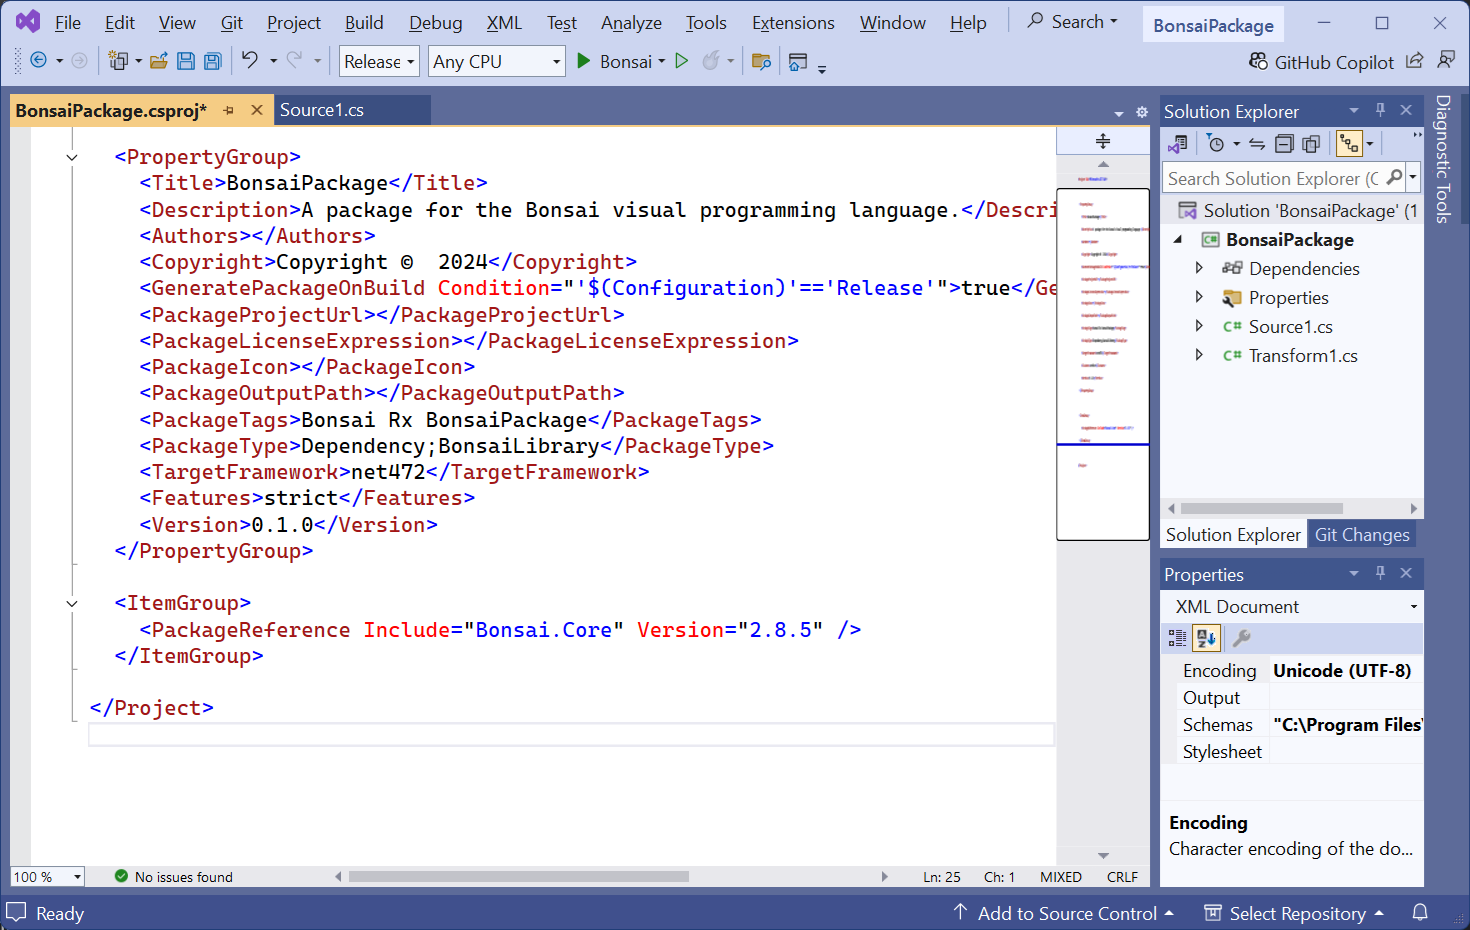
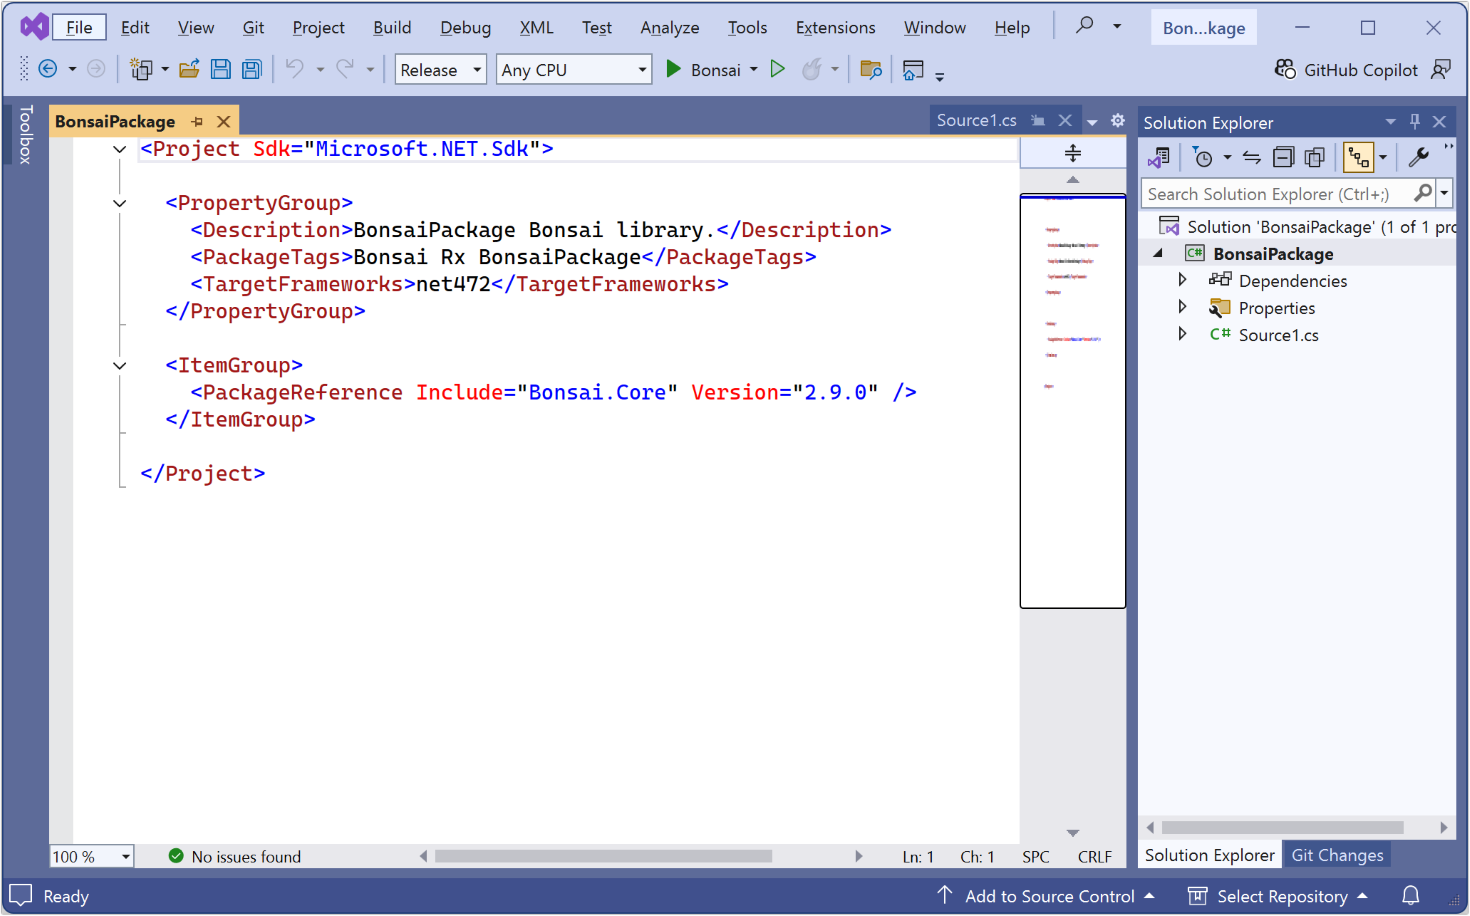
Replace publishing screenshot and update text

Changed region(s): [[0.0, 0.0, 1.0, 1.0], [0.5816, 0.3974, 0.6122, 0.4279], [0.5204, 0.3974, 0.551, 0.4279]]

diff --git a/articles/create-package.md b/articles/create-package.md
@@ -25,18 +25,14 @@ The Bonsai language can be extended with custom packages, which are installed an
     ![Creating a new Bonsai package project](~/images/extensions-packageproject.png)
     
     > [!WARNING]
-    > If you see multiple duplicate entries, you may have leftover deprecated `Bonsai VS extensions` from a previous Bonsai installation. To uninstall them, go to **Extensions** > **Manage Extensions** in Visual Studio.
+    > If you see only one entry or multiple duplicate entries, it may indicate leftover deprecated `Bonsai VS extensions` from a previous Bonsai installation. To maintain a clean development environment, go to **Extensions** > **Manage Extensions** in Visual Studio to uninstall them.
 
-3. Give a name and a location for the project and solution and press the `Create` button. After the project is created, you should see that a file "**Source1.cs**" has been added to the solution explorer. This file contains an example implementation of a custom source.
+3. Give a name and a location for the package project and press the `Create` button. After the project is created, you should see that a file "**Source1.cs**" has been added to the solution explorer. This file contains an example implementation of a custom source.
 
     ![Bonsai source template](~/images/extensions-sourcetemplate.png)
 
     > [!TIP]
     > To prevent unnecessary nested folders, enable the checkbox that places the project and solution in the same directory. The **Bonsai Package** template automatically creates a separate project directory inside the `src` folder.
-
-    > [!TIP]
-    > The example code includes [XML documentation comments](https://learn.microsoft.com/en-us/dotnet/csharp/language-reference/xmldoc/recommended-tags), which can be processed by [docfx](https://dotnet.github.io/docfx/index.html) to automatically generate documentation pages for your package.
-    > For more information, check out the [Documentation with docfx](./documentation-docfx.md) article.
 
 4. Every Bonsai operator specifies an observable sequence using the <xref href="System.IObservable`1"/> interface. The [System.Reactive](http://reactivex.io/) package provides a comprehensive library of methods used to generate and manipulate observable sequences in C#. The simplest way to implement a source is by using the methods in the <xref href="System.Reactive.Linq.Observable"/> class.
 
@@ -120,7 +116,8 @@ The Bonsai language can be extended with custom packages, which are installed an
     ```
 
     > [!NOTE]
-    > To include .bonsai workflow files in your package, tag them as embedded resources by including this snippet in your project `.csproj` file. 
+    > To include Bonsai workflow operators in your package, tag them as embedded resources by including this snippet in your project `.csproj` file. 
+    >
     > ```c#
     > <ItemGroup>
     >   <EmbeddedResource Include="**\*.bonsai" />
@@ -129,7 +126,7 @@ The Bonsai language can be extended with custom packages, which are installed an
 
 ## Adding projects to the package
 
-As packages become more complex, it can be helpful to organize functionality across multiple projects. To add a new project within Visual Studio, right-click the solution name in **Solution Explorer**, choose **Add** > **New Project**, and select the **Bonsai Library** template.
+As packages become more complex, it can be helpful to organize functionality across multiple projects. To add a new project within Visual Studio, right-click the solution name in **Solution Explorer**, choose **Add** > **New Project**, and select the **Bonsai Library** template. Select the `src` folder as the location for the project.
 
 Alternatively, you can do this from the terminal by navigating to the `src` folder and running:
 
@@ -140,10 +137,12 @@ dotnet new bonsailib -n ProjectName
 Add the project to the solution by navigating to the solution folder and running:
 
 ```cmd
-dotnet sln add src/ProjectName
+dotnet sln add src/ProjectName --in-root
 ```
 
 ## Adding package documentation
+
+Including [XML documentation comments](https://learn.microsoft.com/en-us/dotnet/csharp/language-reference/xmldoc/recommended-tags) in your code allows for the generation of online documentation using [docfx](https://dotnet.github.io/docfx/index.html). `Bonsai.Templates` provides a `docfx` template for Bonsai packages. To set it up, navigate to the solution folder and run:
 
 ```cmd
 dotnet new bonsaidocs
@@ -155,14 +154,16 @@ dotnet new bonsaidocs
 
     ![Inspecting the package metadata](~/images/extensions-packagemetadata.png)
 
-2. Fill in or edit all the relevant metadata fields. These are critical to correctly communicate the provenance of your project to other users. Please pay special attention to `Title`, `Description`, `Authors`, `Copyright`, `PackageProjectUrl`, `PackageLicenseExpression`, `PackageIcon` and `PackageTags` to make sure that they correctly describe your project. Make sure that `Version` is correctly assigned in every new release to avoid problems during package updates. In order to make your project discoverable through the Bonsai package manager, make sure to include the `PackageType` field and specify both `Dependency` and `BonsaiLibrary` as package types.
+2. Fill in or edit all the relevant metadata fields. These are critical to correctly communicate the provenance of your project to other users. Please pay special attention to `Description` to make sure that it correctly describes your project. In order to make your project discoverable through the Bonsai package manager, make sure to include the `PackageType` field and specify `BonsaiLibrary` as package types.
 
-    > [!Tip]
+3. Additional package properties can be defined in `Package.props` and `Version.props` files located in the `build` folder. For instance, add a `PackageProjectUrl` and make sure that `Version` is correctly assigned in every new release to avoid problems during package updates.     
+
+> [!Tip]
     > Use version suffixes for sharing prerelease versions for testing, e.g. `0.1.0-alpha`. If a package version has a prerelease suffix, it will only be listed by the package manager if the checkbox "Include prerelease" is checked.
 
-3. Build the project in **Release** mode. If all metadata is correctly specified, the build process should generate a `.nupkg` file as part of the output. By default, it will be placed in the same `bin\Release` folder where the project assembly (.dll) is generated.
+4. Build the project in **Release** mode. If all metadata is correctly specified, the build process should generate a `.nupkg` file as part of the output. By default, it will be placed in the same `bin\Release` folder where the project assembly (.dll) is generated.
 
-4. To install the package in the editor, [configure a new package source](./packages.md#configure-package-sources) pointing to a folder containing your generated `.nupkg` file, or simply copy the `.nupkg` file to the `Gallery` folder of your local Bonsai installation. The package should then be listed in the package manager (make sure to select the package source where the package is located if you cannot find it in the list).
+5. To install the package in the editor, [configure a new package source](./packages.md#configure-package-sources) pointing to a folder containing your generated `.nupkg` file, or simply copy the `.nupkg` file to the `Gallery` folder of your local Bonsai installation. The package should then be listed in the package manager (make sure to select the package source where the package is located if you cannot find it in the list).
 
     > [!Warning]
     > If you have your custom package installed in the same editor used to debug the source code, Bonsai will prefer the installed package over the compiled source code library. In this case, either uninstall the package, or use a local Bonsai installation.
